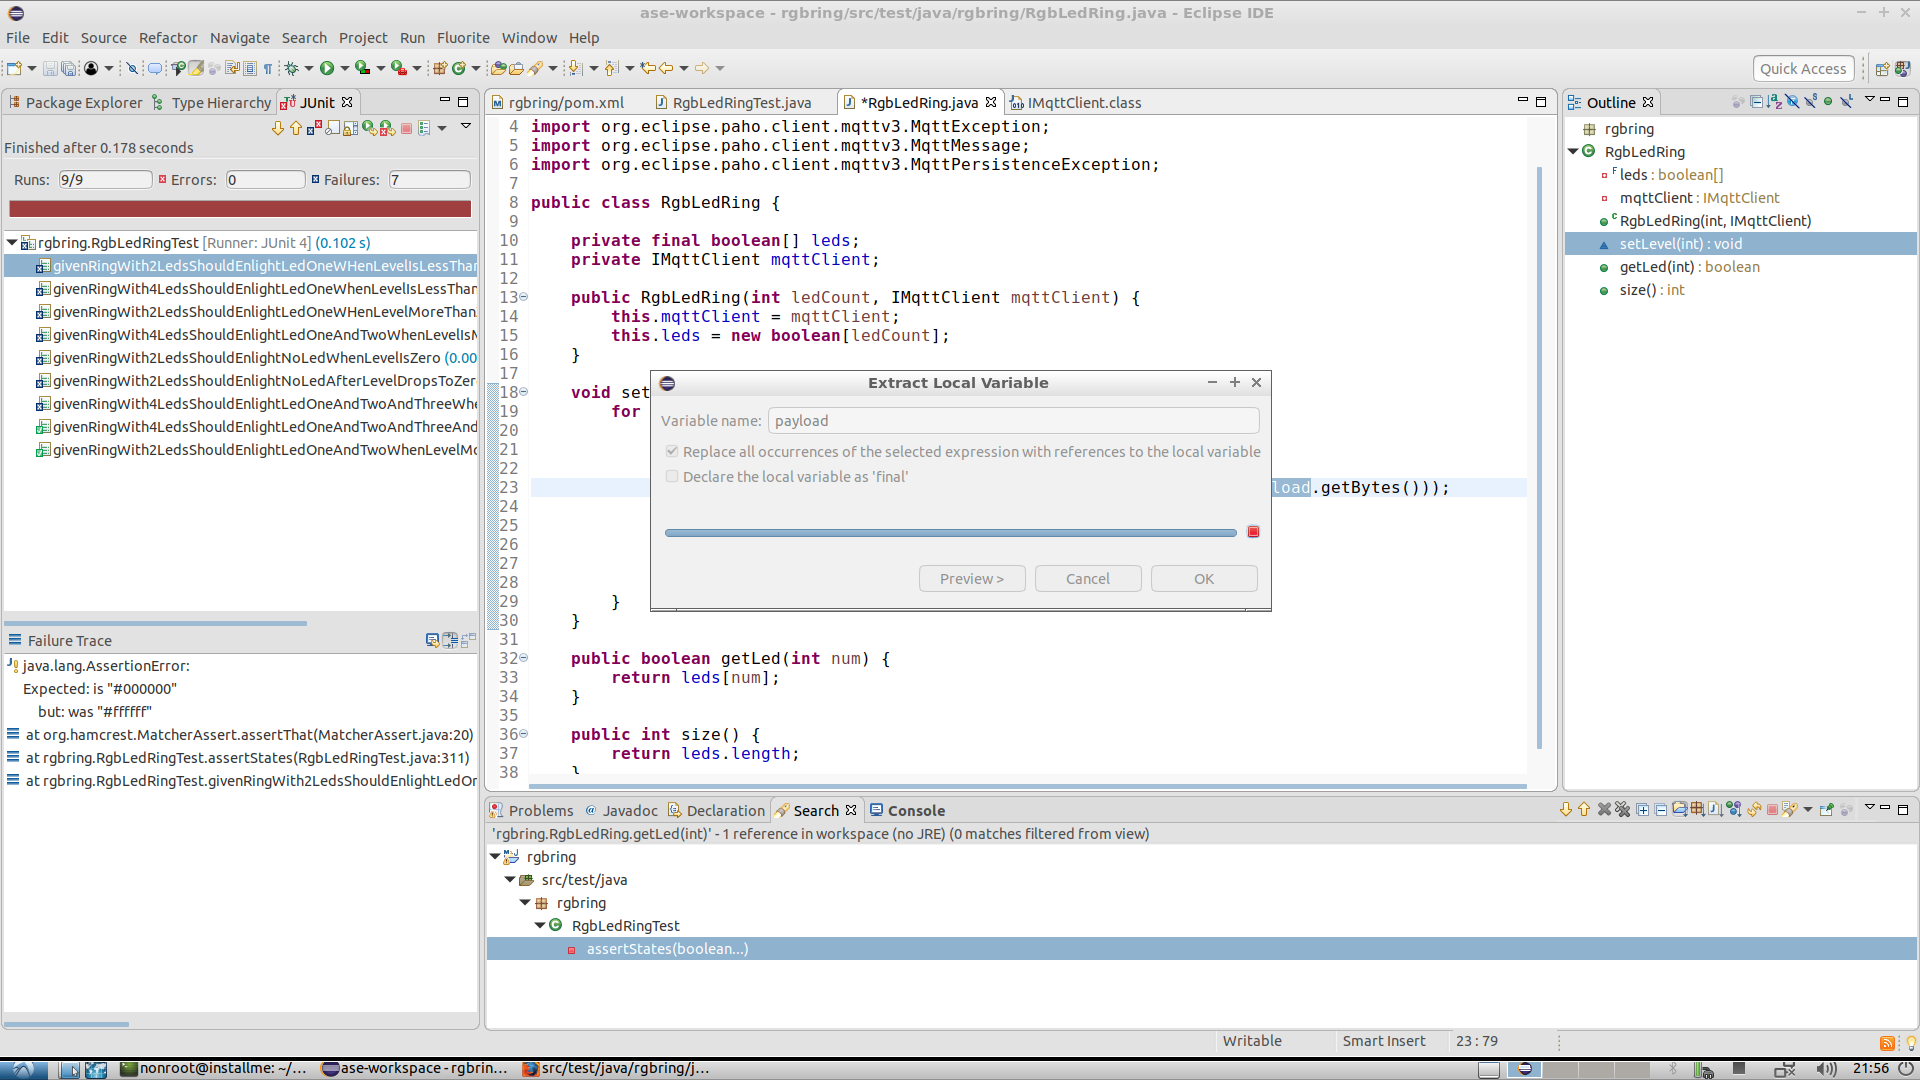
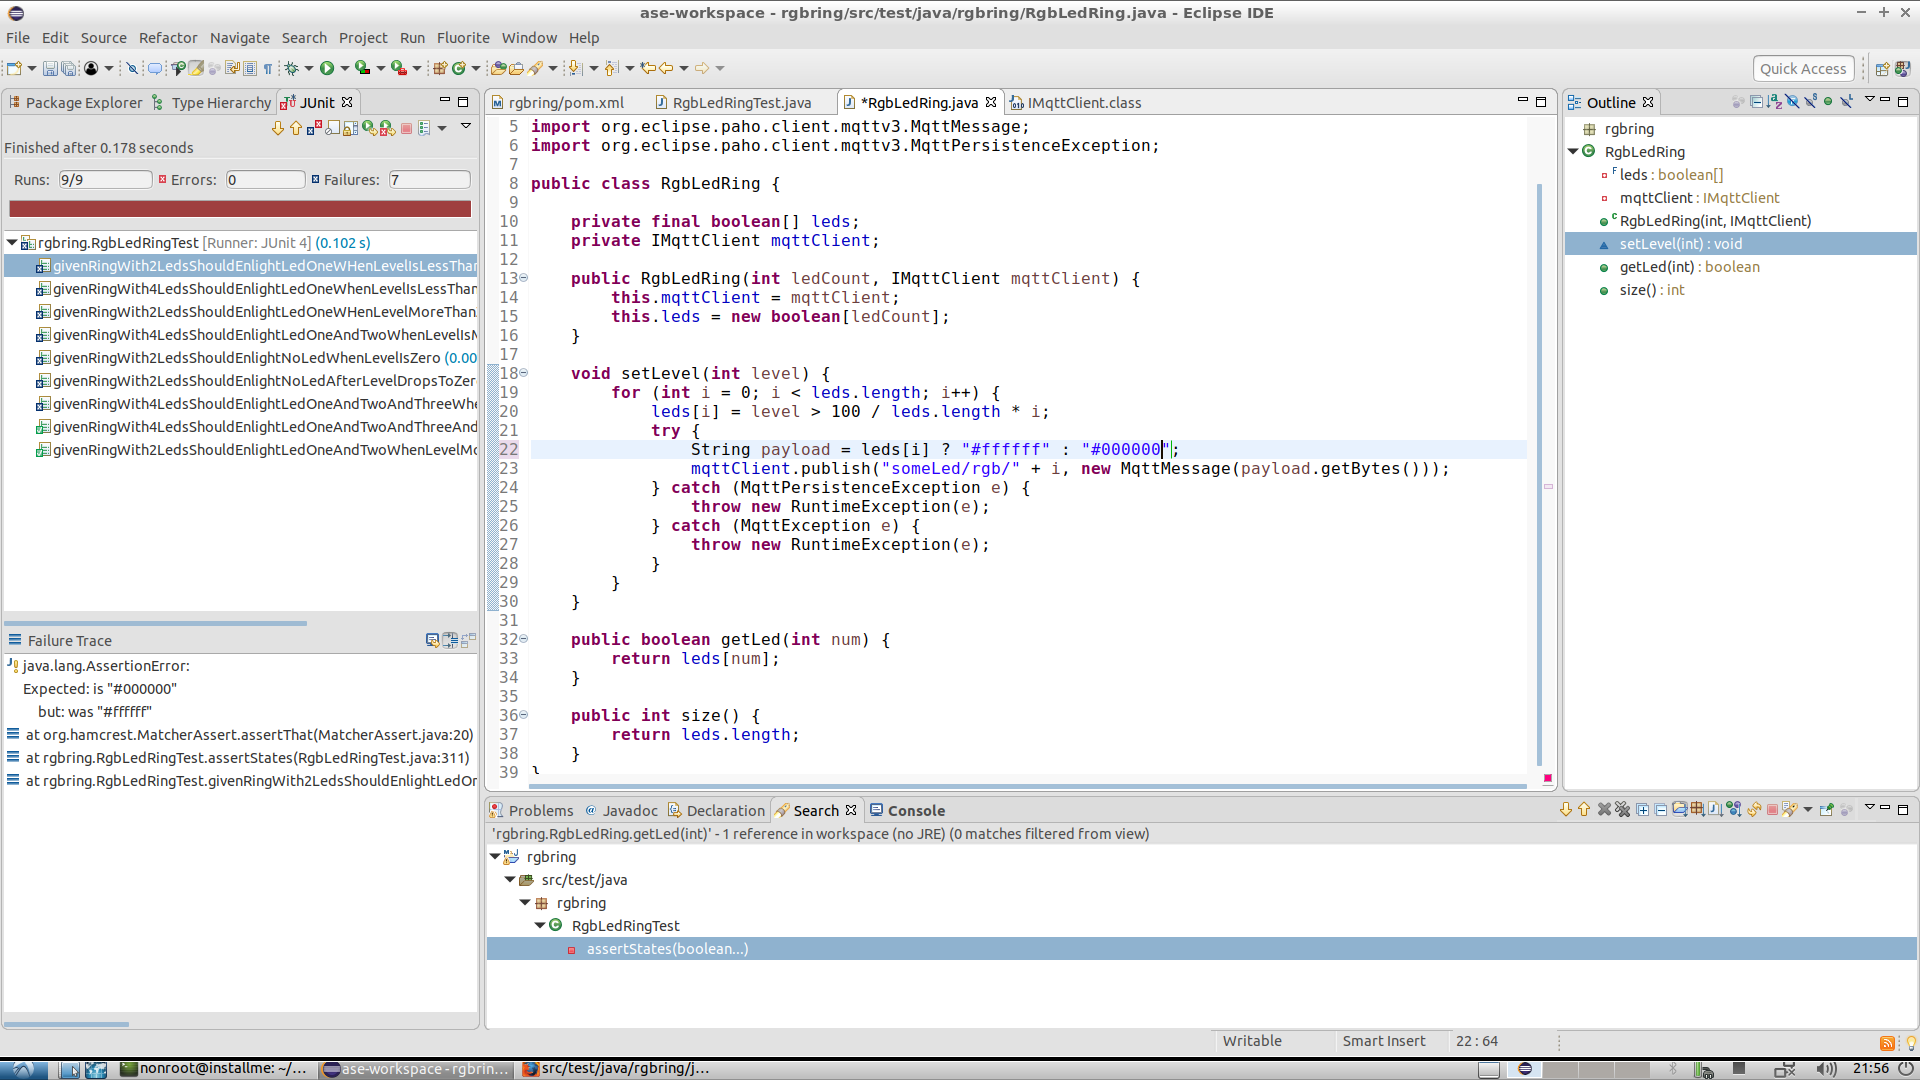
autocommit on change

diff --git a/src/test/java/rgbring/RgbLedRing.java b/src/test/java/rgbring/RgbLedRing.java
@@ -19,7 +19,7 @@ public class RgbLedRing {
 		for (int i = 0; i < leds.length; i++) {
 			leds[i] = level > 100 / leds.length * i;
 			try {
-				String payload = "#ffffff";
+				String payload = leds[i] ? "#ffffff" : "#000000";
 				mqttClient.publish("someLed/rgb/" + i, new MqttMessage(payload.getBytes()));
 			} catch (MqttPersistenceException e) {
 				throw new RuntimeException(e);
